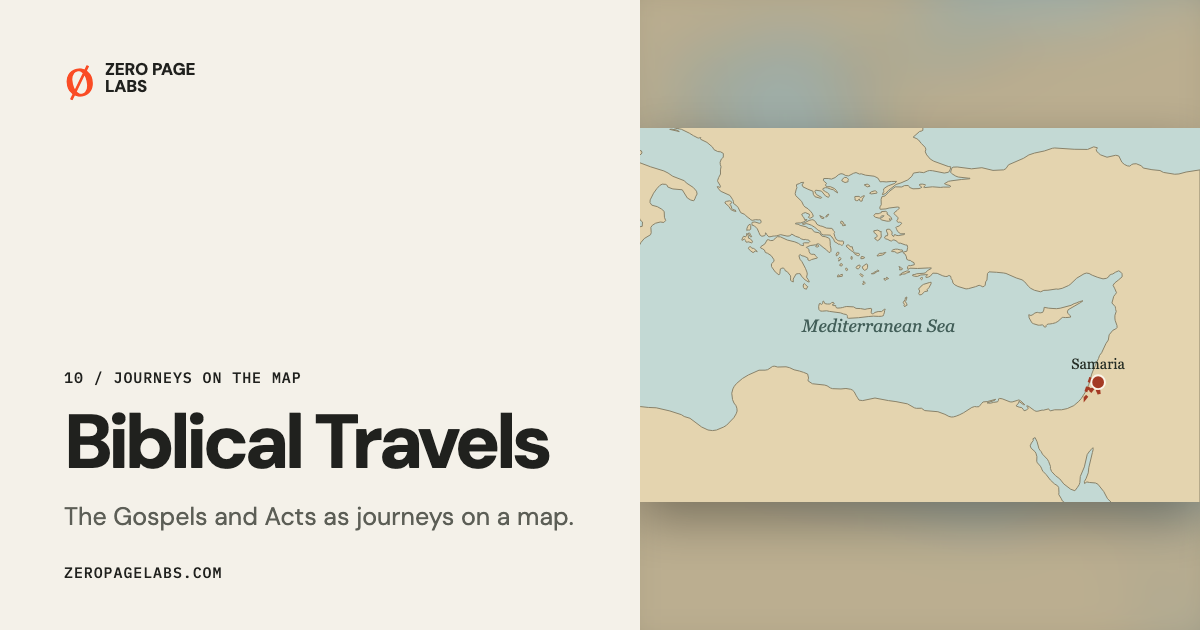
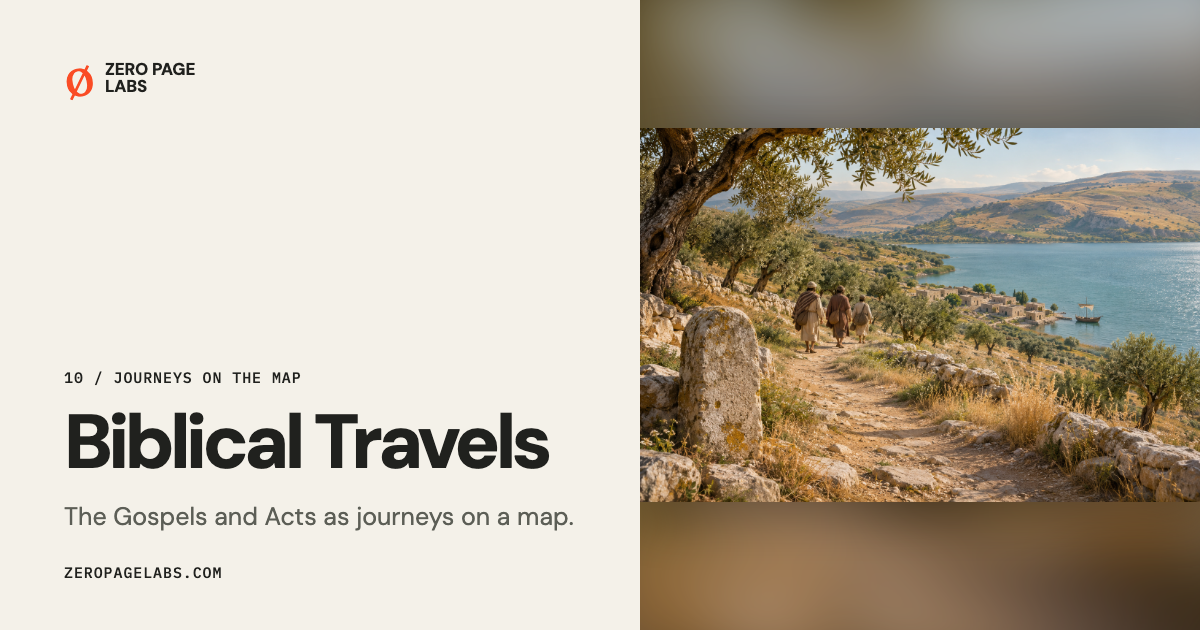
Give Biblical Travels a realistic Galilee journey cover

diff --git a/knowledge/domain/content.md b/knowledge/domain/content.md
@@ -27,3 +27,6 @@ Replaced the schematic card with `assets/experiment-bellona-realistic.png` (1536
 
 ## 2026-11-25 — Maritime cover illustration
 `assets/experiment-maritime-realistic.png` replaces the schematic fleet card. Built-in imagegen produced a realistic age-of-sail fleet scene in teal water, cream canvas, and warm light. This is an artistic illustration, not a documentary reconstruction. Exact prompt: `data/maritime-cover-generation.json`. Original SVG retained. Maritime share card regenerated; 15-page deep verification and share-card freshness passed. Chrome confirmed the full ship composition in the actual card.
+
+## 2026-11-25 — Biblical Travels cover illustration
+`assets/experiment-biblical-travels-realistic.png` replaces the flat map with a realistic Galilee-inspired journey scene: anonymous travelers, olive trees, a stone path, and a lakeside village. Artistic illustration, not a verified reconstruction of a particular site or biblical event. Generated with built-in imagegen; exact prompt in `data/biblical-cover-generation.json`. Original SVG retained. Shared catalog updates homepage and Experiments; Biblical Travels and Experiments share images regenerated. Deep verification passed 15 pages; share-card freshness passed; local desktop and 375px checks passed.

diff --git a/task.md b/task.md
@@ -655,3 +655,11 @@ Surface: static build, shared analytics script, privacy notice. Publish through 
 - [x] Maritime share card matches the replacement image.
 - [x] Deep site verification passes.
 - [x] Public site serves the replacement image.
+
+## 2026-11-25 — Realistic Biblical Travels cover
+- [x] Biblical Travels uses the realistic journey illustration.
+- [x] Homepage loads the replacement image.
+- [x] Experiments index loads the replacement image.
+- [x] Share-card freshness verification passes.
+- [x] Deep site verification passes.
+- [ ] Public site serves the replacement image.
